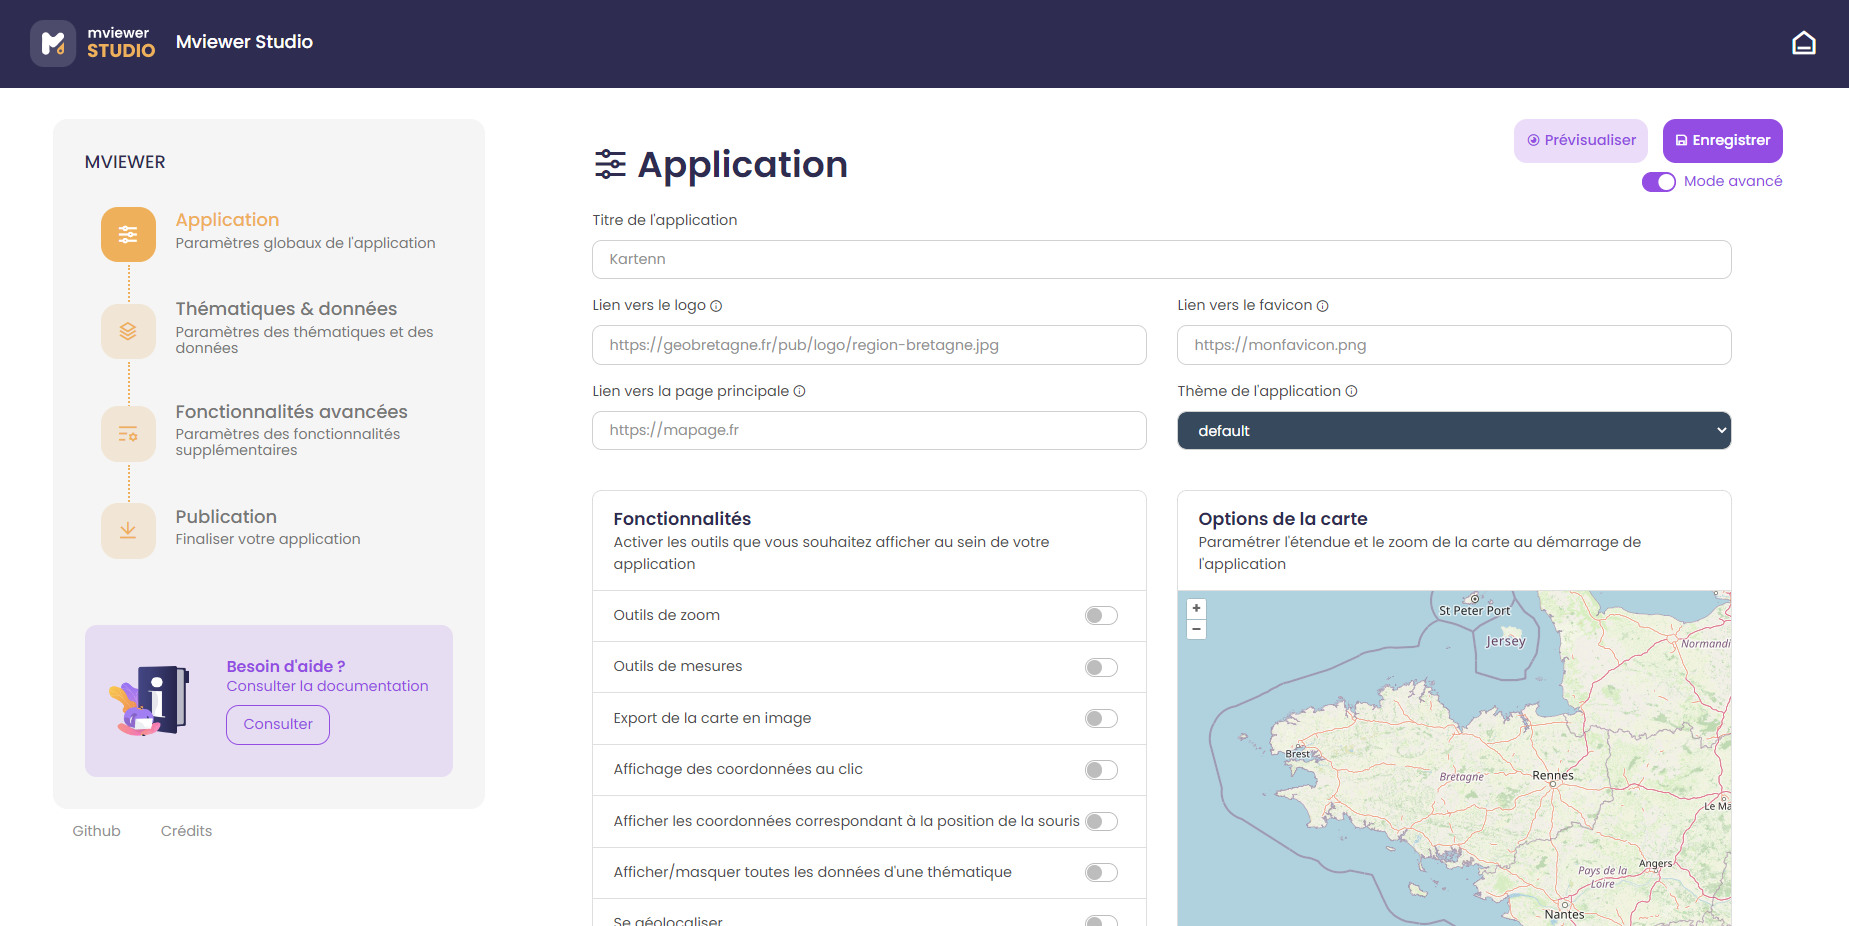
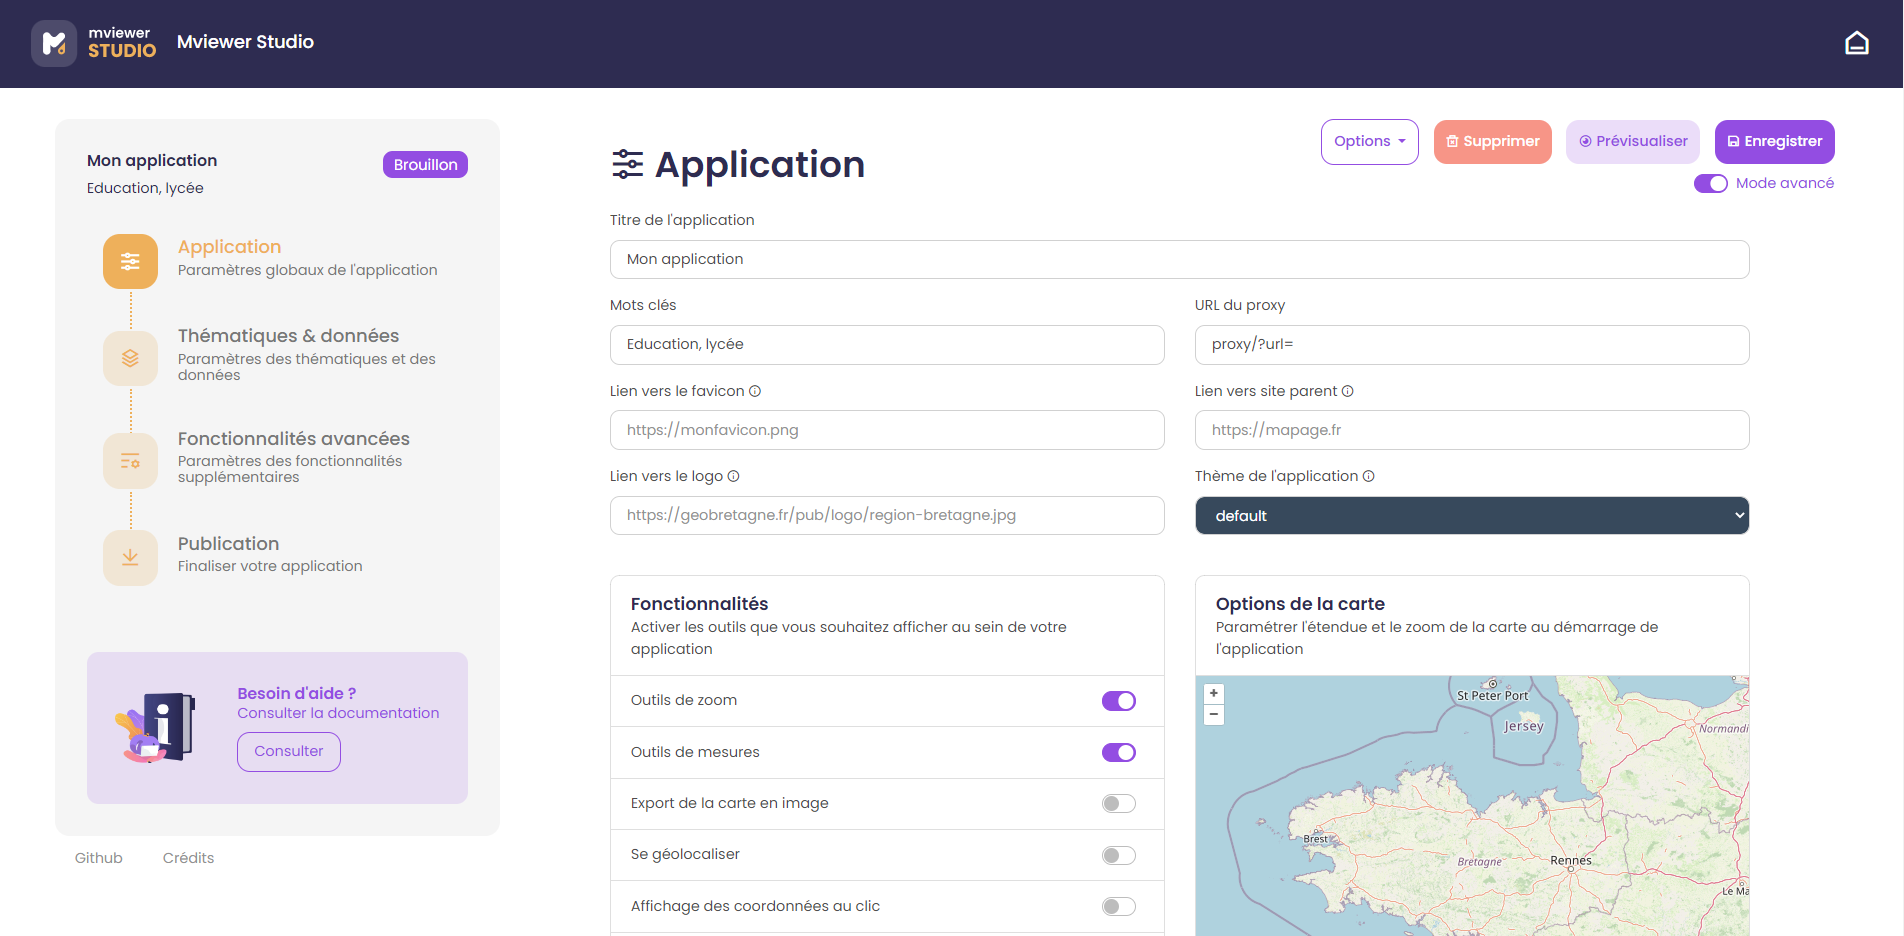
Update doc user #198

diff --git a/docs/doc_user/param_appli.rst b/docs/doc_user/param_appli.rst
@@ -6,7 +6,7 @@
 1) Paramétrer son application
 ==============================
 
-Le mode simple est servi par défaut. Vous pouvez basculer à tout moment sur le mode avancé :guilabel:`mode avancé` en cliquant en haut à droite comme ci-dessous.
+Le mode simple est servi par défaut. Vous pouvez basculer à tout moment sur le :guilabel:`mode avancé` en cliquant en haut à droite comme ci-dessous.
 
 .. image:: ../_images/user/mviewerstudio_1_application_defaut.png
               :alt: Page application
@@ -16,9 +16,11 @@ Champs principaux
 -------------------------------------------
 
 * ``Titre de l'application`` (\* champ obligatoire) : renseigner le titre de votre application cartographique (ex. "Le plan vélo de la Communauté de communes de Châteaugiron").
-* ``Lien vers le logo`` : renseigner l'URL du logo de l'entité productrice de l'application qui apparaitra dans dans le bandeau de l'application (Exemple sur GéoBretagne, les logos des partenaires sont stockés ici_).
+* :guilabel:`mode avancé` ``Mots clés`` : indiquer des mots clés permettant de décrire l'application.
+* :guilabel:`mode avancé` ``URL du proxy`` : lien vers le proxy permettant l’interrogation CROSS DOMAIN des couches (`Plus d'informations <https://mviewerdoc.readthedocs.io/fr/latest/doc_tech/config_proxy.html>`).
 * :guilabel:`mode avancé` ``Lien vers le favicon`` : renseigner l'URL du fichier image à utiliser comme favicon de l’application.
-* :guilabel:`mode avancé` ``Lien vers la page principale`` : renseigner le lien d'une page web vers laquelle l'utilisateur sera redirigée en cliquant sur le logo de l'application mviewer.
+* :guilabel:`mode avancé` ``Lien vers le site parent`` : renseigner le lien d'une page web vers laquelle l'utilisateur sera redirigée en cliquant sur le logo de l'application mviewer.
+* ``Lien vers le logo`` : renseigner l'URL du logo de l'entité productrice de l'application qui apparaitra dans dans le bandeau de l'application (Exemple sur GéoBretagne, les logos des partenaires sont stockés ici_).
 * ``Thème de l'application`` : choisir le thème permettant de personnaliser l'interface de votre application (couleur).
 
 Fonctionnalités
@@ -61,6 +63,34 @@ Sélectionner les fonds de plan à afficher en cochant la case ainsi que le fond
 
 * ``Fond de plan au démarrage`` : choix du fond de plan affiché par défaut .
 * ``Mode d'affichage`` : choix entre le mode normal ou gallerie pour le changement de fond de plan :guilabel:`mode avancé`.
+
+En :guilabel:`mode avancé`, il est possible de rajouter un fond de plan personnalisé à l'aide de ses paramètres en activant la checkboxe. Veuillez ensuite sélectionner le type de couche parmi la liste et renseigner les champs nécessaires :
+
+.. image:: ../_images/user/mviewerstudio_1_application_fonds_de_plan_custom.png
+              :alt: Fond de plan personalisé
+              :align: center
+
+
+* ``Identifiant`` : paramètre obligatoire de type texte pour attribuer un identifiant unique et interne à la couche
+* ``Libellé`` : paramètre obligatoire de type texte pour définir le nom du fond de plan
+* ``URL`` : paramètre obligatoire de type url définissant l’URL du service web OSM, WMTS, WMS ou vector-tms.
+* ``Identifiant technique de la couche`` : identifiant technique de la couche à utiliser
+* ``Attribution`` : paramètre obligatoire alimentant le contrôle attributions de la carte
+* ``Sous-titre`` : informations complémentaires sur le fond de plan comme le producteur
+* ``Lien vers la vignette d'aperçu`` : paramètre obligatoire de type url permettant de sélectionner l’imagette à associer au fond de plan.
+* ``Format d'image`` : paramètre optionnel de type texte définissant le format d’image retourné par le serveur. (Obligatoire pour les couches de type WMS et WMTS)
+* ``Nom du style`` : paramètre optionnel précisant le style à associer à la couche. (Obligatoire pour les couches de type WMTS et vector-tms. Pour le type vector-tms, le style correspond à la valeur indiquée en tant que première clé de la propriété « sources » du fichier de style au format JSON).
+* ``Matrixset`` : paramètre optionnel précisant le style à associer à la couche. Paramètre obligatoire pour les couches de type WMTS si le paramètre fromcapacity n’est pas activé
+* ``Lien vers le fichier de style (JSON)`` : paramètre optionnel de type url définissant le fichier de style au format JSON à utiliser. (Obligatoire pour les couches de type vector-tms)
+
+Après avoir renseigné l'ensemble des paramètres valides, cliquez sur "Ajouter". Le fond de plan apparaît dans la liste. Il est nécessaire de l'activer pour qu'il soit visible dans l'application.
+
+.. image:: ../_images/user/mviewerstudio_1_application_fonds_de_plan_customList.png
+              :alt: Fond de plan personalisé et ajouté
+              :align: center
+
+.. note:: Note
+        Il n'est pas possible de modifier les paramètres d'un fond de plan ajouté. Il faut réitérer la saisie.
 
 
 Recherche (:guilabel:`mode avancé`)

diff --git a/docs/doc_user/gestion_appli.rst b/docs/doc_user/gestion_appli.rst
@@ -1,0 +1,92 @@
+.. Authors : 
+.. mviewer team
+
+.. _gestion_appli:
+
+Gérer son application
+=====================
+
+La gestion de son application est possible depuis la barre de navigation située en haut à droit des différents modules du studio :
+
+.. image:: ../_images/user/mviewerstudio_4_gestion_navabar.png
+              :alt: Boutons pour gérer son application
+              :align: center
+
+* ``Enregistrer`` : permet d'enregistrer les modifications de son application
+* ``Prévisualiser`` : permet de prévisualiser son application avec la configuration actuelle dans un nouvel onglet du navigateur
+* ``Supprimer`` : permet de supprimer définitevement son application
+* ``Dépublier`` : permet de dépublier son application quand celle-ci a été publiée auraparavant (voir rubrique ci-dessous)
+* ``Options`` : permet d'accéder à des options supplémentaires
+
+
+Gérer la publication d'une application
+-------------------------------------------
+
+.. note:: Note
+        Cette fonctionnalité est disponible si et seulement si l'instance sur laquelle vous créez votre application est configurée pour publier une application en production.
+
+Par défaut, une nouvelle application est créee en mode "brouillon". Le mode "brouillon" signifie que l'application est disponible depuis le mviewer studio, les modifications sont enregistrables et prévisualisables. Toutefois, l'application n'est pas accessible en ligne tant qu'elle n'a pas été publiée. 
+
+.. image:: ../_images/user/mviewerstudio_4_gestion_publication1.png
+              :alt: Statut des applications
+              :align: center
+
+Dès que l'application a été publiée, comme expliqué dans la rubrique 3, le statut de celle-ci devient "en ligne". Votre application est alors accessible par tous via le lien disponible dans la fenêtre de publication. 
+
+Nouvelles modifications
+~~~~~~~~~~~~~~~
+
+Lorsque vous réalisez de nouvelles modifications sur votre application, il est nécessaire de la republier pour appliquer les changements à votre application en ligne.
+
+Dépublier une application
+~~~~~~~~~~~~~~~
+
+Il est possible de dépublier une application, si par exemple les données sont obsolètes. Pour la rendre innaccessible, cliquez sur le bouton "Dépublier" dans la barre de navigation. Après cette action, votre application passera en mode "brouillon". Les ressources associées seront également supprimées du serveur de production. 
+
+Vous pouvez donc effectuer les changements nécessaires et la publier de nouveau dès que l'application est stable.
+
+
+
+Gérer l'historique des modifications
+-------------------------------------------
+
+.. note:: Note
+        Cette fonctionnalité est accessible en :guilabel:`mode avancé`.
+
+Lorsque l'on enregistre une application, chaque enregistrement est consigné en associant les modifications réalisées. Cet historique des modifications est visible dans une nouvelle fenêtre depuis le bouton "Options", "Historique des modifications" :
+
+.. image:: ../_images/user/mviewerstudio_4_gestion_version1.png
+              :alt: Fenêtre liste des versions
+              :align: center
+
+
+Créer une version
+~~~~~~~~~~~~~~~
+
+Il est possible de créer une version spécifique avec des modifications associées.
+
+Après avoir importé une nouvelle thématique dans l'application, ouvrez la fenêtre "Historique des modifications" puis cliquez sur "Marquer cette version". Ajoutez ensuite une description à la version et valider: 
+
+.. image:: ../_images/user/mviewerstudio_4_gestion_version2.png
+              :alt: Créer une version
+              :align: center
+
+Cette version marquée est maintenant disponible et identifiée dans l'historique. 
+
+.. image:: ../_images/user/mviewerstudio_4_gestion_version3.png
+              :alt: Version marquée dans le tableau
+              :align: center
+
+
+Gérer les versions
+~~~~~~~~~~~~~~~
+
+Depuis la fenêtre "Historique des modifications", il est possible de gérer les versions avec les actions suivantes :
+
+.. image:: ../_images/user/mviewerstudio_4_gestion_version4.png
+              :alt: Version marquée dans le tableau
+              :align: center
+
+* ``Voir les versions marquées`` : permet de filtrer les versions marquées par l'utilisateur
+* ``Prévisualiser`` : en cliquant sur l'icône "oeil" dans le tableau, l'utilisateur peut prévisualiser les versions précédentes dans un nouvel onglet du navigateur
+* ``Restaurer`` : en cliquant sur l'icône "flèche" dans le tableau, l'utilisateur peut restaurer son application à une version précédente. Attention, cette action est irréversible, les modifications antérieures à la version restaurée seront supprimées. 

diff --git a/docs/doc_user/param_data.rst b/docs/doc_user/param_data.rst
@@ -64,8 +64,7 @@ Il est toutefois possible de gérer certains paramètres. Dans la liste des thé
 Une nouvelle fenêtre s'ouvre avec les options suivantes : 
 - ``Affichage des données de la thématique`` : Option permettant de gérer l'affichage des données de la thématique lors du démarrage de l'application.
 
-
-Paramétrer ses données
+Ajouter une donnée
 -------------------------------------------
 
 Il est ensuite nécessaire d'ajouter des données à cette thématique via le bouton |ajout_donnees|.
@@ -74,7 +73,7 @@ Il est ensuite nécessaire d'ajouter des données à cette thématique via le bo
               :alt: Ajouter une donnée 
 	      :width: 100 pt
 
-Ajouter une donnée
+Ajouter une donnée depuis un catalogue
 ~~~~~~~~~~~~~~~~~~~
 
 Vous pouvez chercher un jeu de données dans un catalogue (ex. Région Bretagne). Vous pouvez valider votre recherche en tapant sur la touche Entrée de votre clavier ou sur l'icone loupe :
@@ -95,6 +94,24 @@ Vous pouvez chercher un jeu de données dans un catalogue (ex. Région Bretagne)
               :alt: Chercher une donnée
               :align: center
 
+Ajouter une donnée depuis ces paramètres
+~~~~~~~~~~~~~~~~~~~
+
+Si le jeu de donnée n'est pas disponible dans un catalogue, il est possible de rajouter une donnée à l'aide de ces paramètres. Cliquez sur le second onglet et sélectionnez le type de la donnée parmi la liste. Indiquez ensuite les paramètres en veillant à leur validité :
+
+.. image:: ../_images/user/mviewerstudio_2_ajout_donnee_param.png
+              :alt: Ajouter une donnée depuis ces paramètres
+              :align: center
+
+* ``ID`` : paramètre de type texte qui renseigne l’identifiant technique de la couche côté serveur WMS ou WFS
+* ``Nom`` : nom de la donnée dans l'application
+* ``URL`` : paramètre de type URL (URL du service web)
+* ``Lien vers le fichier de style`` : pour les couches de type vector-tms uniquement, il indique l’URL vers le fichier de style au format JSON.
+* ``Nom du style`` : pour les couches de type vector-tms uniquement, titres à utiliser pour la liste des styles associés
+
+Paramétrer ses données
+-------------------------------------------
+
 Une fois cliqué sur Séléctionner, la donnée est ajoutée à l'arborescence. Vous pouvez modifier les paramétrages en cliquant sur |parametrage|.
 
 .. image:: ../_images/user/mviewerstudio_2_ajout_donnee.png
@@ -104,7 +121,6 @@ Une fois cliqué sur Séléctionner, la donnée est ajoutée à l'arborescence. 
 .. |parametrage| image:: ../_images/user/mviewerstudio_2_parametrage.png
               :alt: Editer cette donnée 
 	      :width: 20 pt
-
 
 Onglet Général
 ~~~~~~~~~~~~~~~

diff --git a/docs/doc_user/publication.rst b/docs/doc_user/publication.rst
@@ -6,9 +6,36 @@
 3) Publier son application
 =====================
 
-La configuration de votre application est terminée. Vous pouvez télécharger le fichier XML pour publication en production ou prévisualiser le résultat.
+La configuration de votre application est terminée. Vous pouvez prévisualiser le résultat et télécharger le fichier .XML pour le déposer ensuite sur un serveur en production.
 
 .. image:: ../_images/user/mviewerstudio_3_publication.png
               :alt: Publier son application
               :align: center
+
+Publier une application depuis le studio
+-------------------------------------------
+
+.. note:: Note
+        Cette fonctionnalité est disponible si et seulement si l'instance sur laquelle vous créez votre application est configurée pour publier une application en production.
+
+Pour publier votre application, cliquez sur "Publier votre application". Une nouvelle fenêtre s'ouvre :
+
+.. image:: ../_images/user/mviewerstudio_3_publication_production1.png
+              :alt: Publier son application en production
+              :align: center
+
+* ``Nouveau nom`` : nom de l'application publiée, par défaut c'est le nom saisie lors de la création. Ce nom sera visible dans le lien de l'application et sera également le nom du dossier sur le serveur.
+
+Pour valider le processus, cliquez sur "Publier votre application". 
+
+Une fenêtre indique que l'application a été publiée avec succès :
+
+.. image:: ../_images/user/mviewerstudio_3_publication_production_succes.png
+              :alt: Publier son application en production validée
+              :align: center
+
+* ``Lien de partage`` : Lien de l'application en production permettant d'y accéder
+* ``Intégration en iframe`` : Code HTML à copier/coller pour intégrer la carte dans une page web 
+
+Vous pouvez ensuite poursuivre vos modifications ou retourner à l'accueil.
 

diff --git a/docs/doc_user/accueil.rst b/docs/doc_user/accueil.rst
@@ -35,6 +35,12 @@ Deux choix sont offerts à l'utilisateur :
               :alt: Projet existant serveur
               :align: center
 
+Chaque application accessible peut être prévisualisée, modifiée ou supprimée en cliquant sur les boutons associés. On visualise quelles sont les applications publiées, c'est à dire en ligne et les applications en mode "brouillon".
+
+Il est également possible de filtrer les applications selon un mot clé, une date ou un auteur à l'aide de la barre de recherche en haut.
+
+Cliquez sur "Modifier" pour accéder à l'éditeur d'application.
+
 * Ouvrir un projet existant disponible sur un espace de stockage local (fichier XML sur votre ordinateur)
 
 .. image:: ../_images/user/mviewerstudio_0_accueil_projet_existant_local.png
@@ -65,7 +71,7 @@ L'utilisateur peut basculer entre les étapes en cliquant sur l'étape de son ch
 	      :width: 70 pt
 
 
-Il est aussi possible d'enregistrer  |enregistrer| ou de prévisualiser |previsualiser| son projet tout le long de son parcours de création.
+Il est aussi possible d'enregistrer  |enregistrer|, de prévisualiser |previsualiser| ou de supprimer son projet tout le long du parcours de création.
 
 .. |enregistrer| image:: ../_images/user/mviewerstudio_1_application_bouton_enregistrer.png
               :alt: Enregistrer 

diff --git a/docs/index.rst b/docs/index.rst
@@ -29,6 +29,7 @@ Cette partie est dédiée aux utilisateurs qui souhaitent prendre en main l'inte
    doc_user/param_appli
    doc_user/param_data
    doc_user/publication
+   doc_user/gestion_appli
 
 
 
